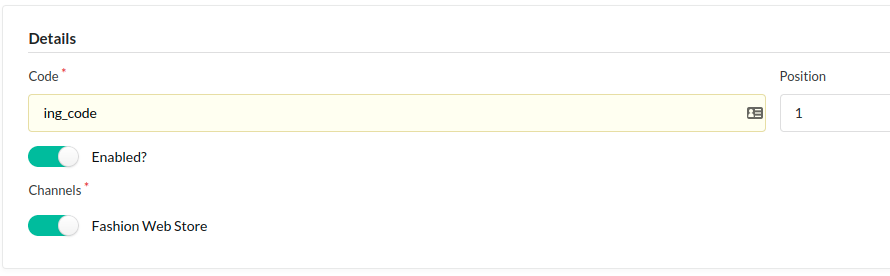
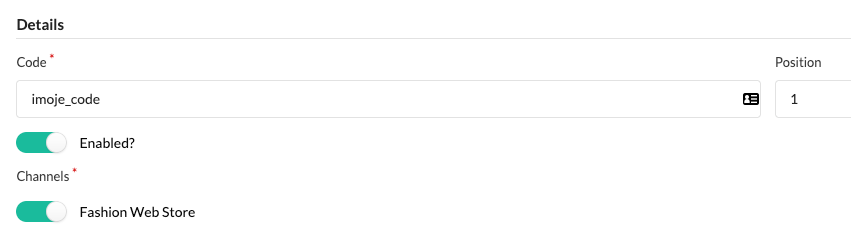
Updated package naming

diff --git a/README.md b/README.md
@@ -1,5 +1,5 @@
 
-# ING Payments Plugin for Sylius
+# imoje Payments Plugin for Sylius
 ----
 
 At BitBag we do believe in open source. However, we are able to do it just because of our awesome clients, who are kind enough to share some parts of our work with the community. Therefore, if you feel like there is a possibility for us working together, feel free to reach us out. You will find out more about our professional services, technologies and contact details at [https://bitbag.io/](https://bitbag.io/?utm_source=github&utm_medium=referral&utm_campaign=plugins_adyen).
@@ -32,12 +32,12 @@ The integration currently supports the following payment methods:
 1. Cards
 2. Blik
 3. Pay by link
-4. iMoje pay later
+4. imoje pay later
 
 # We are here to help
 ----
 
-This **open-source plugin was developed to help the Sylius community** and make ING payments platform available to any Sylius store. If you have any additional questions, would like help with installing or configuring the plugin or need any assistance with your Sylius project - let us know!
+This **open-source plugin was developed to help the Sylius community** and make imoje payments platform available to any Sylius store. If you have any additional questions, would like help with installing or configuring the plugin or need any assistance with your Sylius project - let us know!
 
 [![](https://bitbag.io/wp-content/uploads/2020/10/button-contact.png)](https://bitbag.io/contact-us/?utm_source=github&utm_medium=referral&utm_campaign=plugins_ing)
 
@@ -59,7 +59,7 @@ For the full installation guide please go to [installation](doc/installation.md)
 
 ### Usage
 
-This plugin allows you to use the payment solution delivered by ING.
+This plugin allows you to use the payment solution delivered by imoje.
 
 
 ### Configuration:
@@ -68,22 +68,22 @@ You need to put the path to wkhtmltopdf in your .env file.
 WKHTMLTOPDF_PATH=/usr/local/bin/wkhtmltopdf
 ```
 
-To create an ING-based payment method, go to Payment methods in the Sylius admin panel.
+To create an imoje-based payment method, go to Payment methods in the Sylius admin panel.
 
 
   ![Screenshot showing payment method config in admin](doc/payment_methods_config.png)
 
-After that, you need to add an ING payment:
+After that, you need to add an imoje payment:
 
 
   ![Screenshot showing payment method config in admin](doc/create_ing_method.png)
 
 And now, you can configure your payment method in the admin panel:
-* first you need to add a gateway code, for example "ing_code" and set its position.
+* first you need to add a gateway code, for example "imoje_code" and set its position.
 
 
   ![Screenshot showing payment method config in admin](doc/details.png)
-* To configure the iMoje gateway, log in to ING the admin panel.
+* To configure the imoje gateway, log in to imoje the admin panel.
 
 
   ![Screenshot showing payment method config in admin](doc/main_imoje.png)
@@ -117,7 +117,7 @@ And now, you can configure your payment method in the admin panel:
 
   ![Screenshot showing payment method config in admin](doc/admin_page_ing.png)
 
-* And now you have to set a proper name for your payment method (keep in mind that ING supports multiple online payment methods), and click "Create".
+* And now you have to set a proper name for your payment method (keep in mind that imoje supports multiple online payment methods), and click "Create".
 
   ![Screenshot showing payment method config in admin](doc/payment_name.png)
 

diff --git a/doc/installation.md b/doc/installation.md
@@ -3,7 +3,7 @@
 1. Require it with composer:
 
 ```bash
-composer require bitbag/sylius-ing-plugin
+composer require bitbag/sylius-imoje-plugin
 ```
 2. Add plugin dependencies to your `config/bundles.php` file:
 
@@ -21,7 +21,7 @@ return [
 
 imports:
     ...
-    - { resource: "@BitBagSyliusIngPlugin/Resources/config/config.yaml" }
+    - { resource: "@SyliusIngPlugin/Resources/config.yaml" }
 ```
 
 4. Import the routing in your `config/routes.yaml` file:
@@ -30,7 +30,7 @@ imports:
 # config/routes.yaml
 
 bitbag_sylius_ing_plugin:
-    resource: "@BitBagSyliusIngPlugin/Resources/config/routing.yaml"
+    resource: "@SyliusIngPlugin/Resources/config/routing.yaml"
 ```
 
 5. Add ING as a supported refund gateway in `config/packages/_sylius.yaml`:
@@ -50,8 +50,8 @@ bitbag_sylius_ing_plugin:
 mkdir -p templates/bundles/SyliusAdminBundle/
 mkdir -p templates/bundles/SyliusShopBundle/
 
-cp -R vendor/bitbag/sylius-ing-plugin/tests/Application/templates/bundles/SyliusAdminBundle/* templates/bundles/SyliusAdminBundle/
-cp -R vendor/bitbag/sylius-ing-plugin/tests/Application/templates/bundles/SyliusShopBundle/* templates/bundles/SyliusShopBundle/
+cp -R vendor/bitbag/sylius-imoje-plugin/tests/Application/templates/bundles/SyliusAdminBundle/* templates/bundles/SyliusAdminBundle/
+cp -R vendor/bitbag/sylius-imoje-plugin/tests/Application/templates/bundles/SyliusShopBundle/* templates/bundles/SyliusShopBundle/
 ```
 
 7. Complete [refund plug-in](https://github.com/Sylius/RefundPlugin) install steps (templates etc.).
